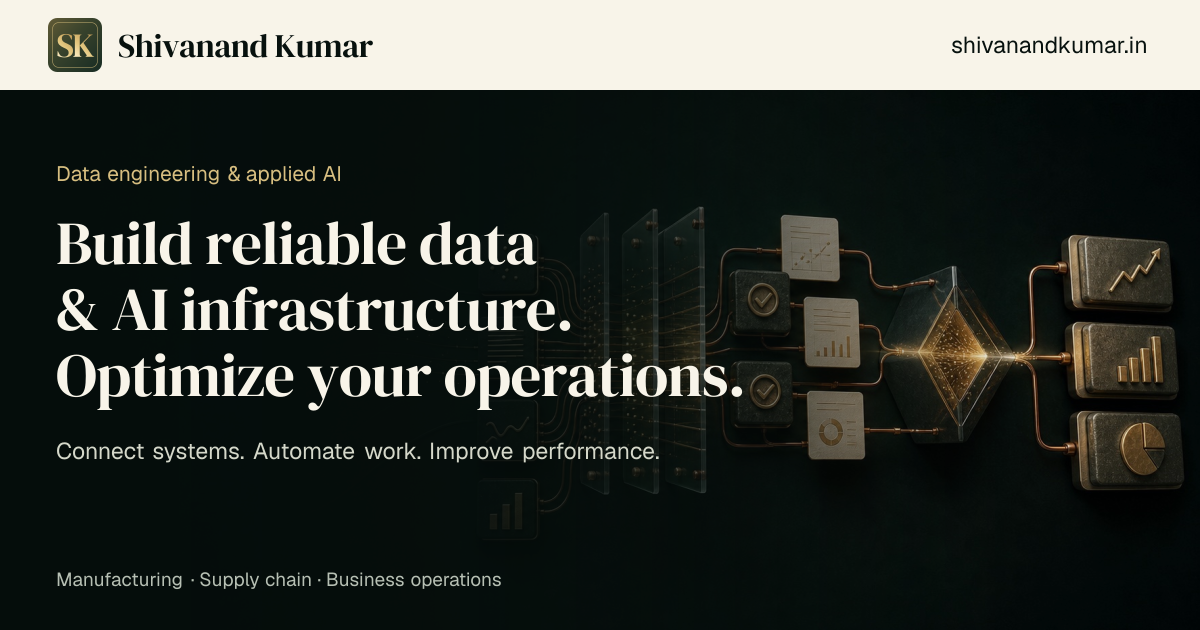
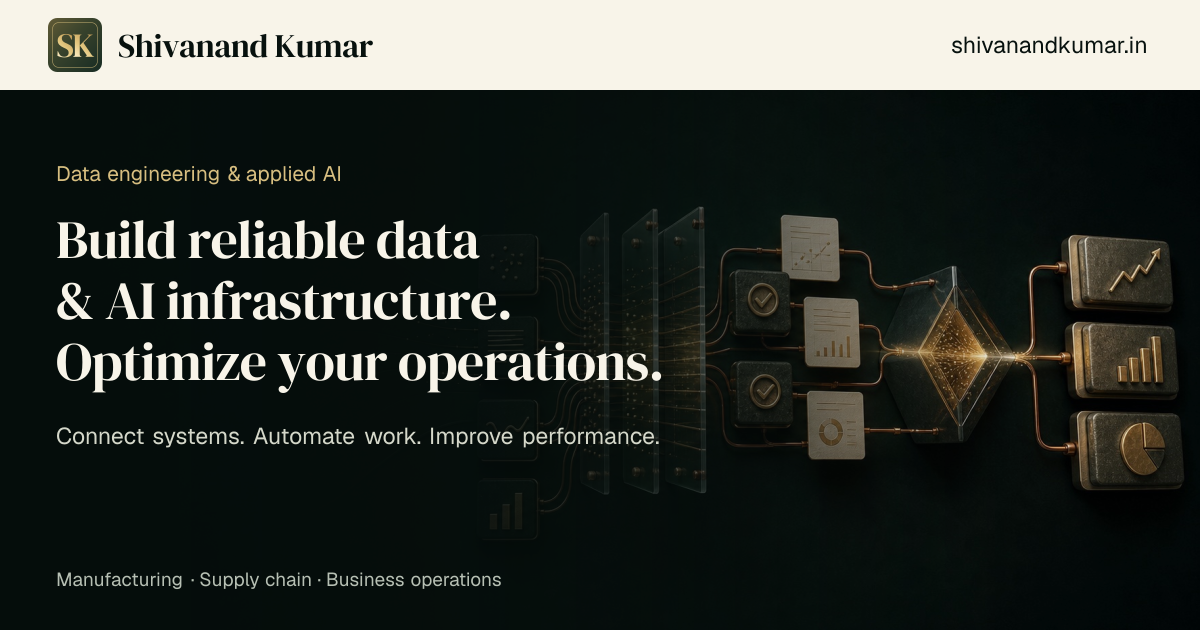
Refine homepage hierarchy and simplify service content

Changed region(s): [[0.0308, 0.4524, 0.6167, 0.754], [0.0308, 0.3317, 0.4625, 0.4222]]

diff --git a/app/homepage.html b/app/homepage.html
@@ -12,14 +12,14 @@
 <section class="rn-hero rn-columns cp-hero biz-hero" id="top" aria-labelledby="rn-main-title">
 <div class="rn-atmosphere" aria-hidden="true"></div>
 <div class="rn-shell">
-<div class="cp-grid"><h1 class="cp-headings" id="rn-main-title"><span class="cp-heading-1">Build reliable data.</span> <span class="cp-heading-2">Put AI to work.</span> <span class="cp-heading-3">Improve how work runs.</span></h1>
-<div class="cp-details"><p class="cp-detail-1">When reports disagree and systems don’t connect, give your team a dependable flow of information to work with.</p><p class="cp-detail-2">Help people find answers, prepare information and move routine work forward—with checks where they matter.</p><p class="cp-detail-3">Use operational data to spot delays, understand cost and plan inventory, people and capacity more clearly.</p></div></div>
-<div class="biz-hero-bottom"><p class="biz-hero-scope">Data engineering, applied AI and workflow automation.<br>Start with one business problem. Build a useful solution. Measure the result.</p>
+<div class="cp-grid"><h1 class="cp-headings" id="rn-main-title"><span class="cp-heading-1">Build reliable<br>data.</span> <span class="cp-heading-2">Put AI to work.</span> <span class="cp-heading-3">Improve how<br>work runs.</span></h1>
+<div class="cp-details"><p class="cp-detail-1">Connect your systems and give teams data they can trust.</p><p class="cp-detail-2">Find answers and automate routine tasks, with checks where they matter.</p><p class="cp-detail-3">Spot delays, understand costs and plan inventory, people and capacity.</p></div></div>
+<div class="biz-hero-bottom"><p class="biz-hero-scope">Data engineering, applied AI and automation for better operations.</p>
 <div class="rn-actions"><a class="rn-primary" href="#solutions">Explore the possibilities</a><a class="rn-secondary" href="#contact">Discuss your challenge</a></div></div></div>
-<div class="biz-sector-strip"><p>For manufacturing, supply chain, ecommerce and service teams.</p><p><strong>From first pilot to ongoing improvement.</strong></p></div></section>
+<div class="biz-sector-strip"><p>For manufacturing, supply chain, ecommerce and service teams.</p></div></section>
 
 <section class="biz-explorer" id="solutions" aria-labelledby="solutions-title">
-<div class="biz-section-intro"><h2 id="solutions-title">Where is work<br>getting stuck?</h2><p>Choose a challenge to see where data, AI or automation could help—and what a focused first project might look like.</p></div>
+<div class="biz-section-intro"><h2 id="solutions-title">Where is work getting stuck?</h2><p>Choose a challenge to explore a practical first project.</p></div>
 <div class="biz-explorer-layout">
 <div class="biz-tabs" role="tablist" aria-label="Business challenges" aria-orientation="vertical"><button type="button" role="tab" id="solution-tab-data" aria-controls="solution-panel-data" aria-selected="true" tabindex="0" data-solution-tab="data" data-service="Data engineering &amp; reporting"><strong>Data &amp; reporting</strong><span>Our systems don&#x27;t tell the same story.</span></button><button type="button" role="tab" id="solution-tab-design" aria-controls="solution-panel-design" aria-selected="false" tabindex="-1" data-solution-tab="design" data-service="Engineering knowledge &amp; applied AI"><strong>Design &amp; engineering</strong><span>We keep searching and rechecking specifications.</span></button><button type="button" role="tab" id="solution-tab-process" aria-controls="solution-panel-process" aria-selected="false" tabindex="-1" data-solution-tab="process" data-service="Process analytics &amp; workflow improvement"><strong>Process &amp; quality</strong><span>The same delays and rework keep coming back.</span></button><button type="button" role="tab" id="solution-tab-cost" aria-controls="solution-panel-cost" aria-selected="false" tabindex="-1" data-solution-tab="cost" data-service="Inventory &amp; cost analytics"><strong>Cost &amp; inventory</strong><span>We see the spend, but not what is driving it.</span></button><button type="button" role="tab" id="solution-tab-workforce" aria-controls="solution-panel-workforce" aria-selected="false" tabindex="-1" data-solution-tab="workforce" data-service="Workforce &amp; capacity planning analytics"><strong>Workforce &amp; capacity</strong><span>Our workload and capacity rarely line up.</span></button><button type="button" role="tab" id="solution-tab-customer" aria-controls="solution-panel-customer" aria-selected="false" tabindex="-1" data-solution-tab="customer" data-service="Knowledge assistants &amp; workflow automation"><strong>Customer operations</strong><span>Routine queries take too much time.</span></button></div>
 <div>
@@ -58,17 +58,17 @@
 <div class="section-heading section-heading-stack"> <p class="eyebrow">Three connected capabilities</p>
 <div> <h2>The foundations behind a useful solution.</h2> </div> </div>
 <div class="capability-frame" aria-label="Connected data, AI and operational analytics services">
-<div class="capability-ring" aria-hidden="true"> <span></span> <span></span> <span></span> </div>
-<article class="capability-node capability-node-top"><p>Applied AI</p>
-<div><h3>Knowledge and workflow automation</h3><ul><li>Answers from approved information</li><li>Useful drafts and document workflows</li><li>Evaluation and human review</li></ul><a href="#solutions" data-open-solution="customer">Explore AI use cases</a></div></article>
 
 <article class="capability-node capability-node-right"><p>Data engineering</p>
 <div><h3>Connected, dependable data</h3><ul><li>Pipeline modernisation and integration</li><li>Shared definitions and quality checks</li><li>Monitoring and controlled access</li></ul><a href="#solutions" data-open-solution="data">Explore data use cases</a></div></article>
 
+<article class="capability-node capability-node-top"><p>Applied AI</p>
+<div><h3>Knowledge and workflow automation</h3><ul><li>Answers from approved information</li><li>Useful drafts and document workflows</li><li>Evaluation and human review</li></ul><a href="#solutions" data-open-solution="customer">Explore AI use cases</a></div></article>
+
 <article class="capability-node capability-node-left"><p>Operational analytics</p>
 <div><h3>Clearer planning and decisions</h3><ul><li>Demand and inventory signals</li><li>Cost and capacity views</li><li>Exceptions that need attention</li></ul><a href="#solutions" data-open-solution="cost">Explore operational use cases</a></div></article>
 
-<div class="capability-core"> <strong>Your business problem</strong> </div> </div> </section>
+ </div> </section>
 
 <section class="section process-section biz-process" id="process">
 <div class="section-heading section-heading-stack"><p class="eyebrow">A clear working rhythm</p>
@@ -83,9 +83,9 @@
 <section class="evaluation-motion-section" id="evaluation-workflow" data-astro-cid-gbcsa3oz>
 <div class="evaluation-motion-heading" data-astro-cid-gbcsa3oz> <p class="eyebrow" data-astro-cid-gbcsa3oz>Checks that make the work dependable</p>
 <div data-astro-cid-gbcsa3oz> <h2 data-astro-cid-gbcsa3oz>Build confidence into the workflow.</h2> <p data-astro-cid-gbcsa3oz>
-Agree what good looks like, test the difficult cases and make exceptions visible. Data, AI and planning workflows each need checks that fit the decisions they support.
+Agree what good looks like, test difficult cases and make exceptions visible before everyday use.
 </p> </div> </div>
-<div class="evaluation-motion-scroll" data-astro-cid-gbcsa3oz>
+<details class="workflow-details"><summary>Explore the checks behind each workflow</summary><div class="evaluation-motion-scroll" data-astro-cid-gbcsa3oz>
 <figure class="evaluation-motion reliability-board" data-evaluation-motion aria-label="Illustrative data, AI and planning workflows, with checks and review before use." data-astro-cid-gbcsa3oz>
 <div class="workflow-board-head" data-astro-cid-gbcsa3oz> <span data-astro-cid-gbcsa3oz>Illustrative delivery workflows</span> <strong data-astro-cid-gbcsa3oz>From the right inputs to a reviewed result.</strong> </div>
 <div class="workflow-tracks" data-astro-cid-gbcsa3oz>
@@ -101,7 +101,7 @@ Agree what good looks like, test the difficult cases and make exceptions visible
 <header class="workflow-track-head" data-astro-cid-gbcsa3oz><p data-astro-cid-gbcsa3oz>Planning and analytics</p><h3 data-astro-cid-gbcsa3oz>Make assumptions and trade-offs visible to the people deciding.</h3></header>
 <ol class="workflow-flow" data-astro-cid-gbcsa3oz><li data-astro-cid-gbcsa3oz><strong data-astro-cid-gbcsa3oz>Question</strong><span data-astro-cid-gbcsa3oz>A cost, inventory or capacity need</span></li><li data-astro-cid-gbcsa3oz><strong data-astro-cid-gbcsa3oz>Drivers</strong><span data-astro-cid-gbcsa3oz>History, demand and constraints</span></li><li data-astro-cid-gbcsa3oz><strong data-astro-cid-gbcsa3oz>Compare</strong><span data-astro-cid-gbcsa3oz>Baselines and alternative scenarios</span></li><li data-astro-cid-gbcsa3oz><strong data-astro-cid-gbcsa3oz>Review</strong><span data-astro-cid-gbcsa3oz>Check assumptions with the team</span></li><li class="workflow-result" data-astro-cid-gbcsa3oz><strong data-astro-cid-gbcsa3oz>Track</strong><span data-astro-cid-gbcsa3oz>Decisions and the actual result</span></li></ol></article>
  </div> <button class="evaluation-motion-toggle" type="button" aria-label="Pause workflow animation" title="Pause animation" data-astro-cid-gbcsa3oz>Pause</button> </figure>
- </div> <p class="final-workflow-note">The checks and review points are agreed for each engagement. This diagram illustrates the approach.</p></section>
+ </div> <p class="final-workflow-note">The checks and review points are agreed for each engagement. This diagram illustrates the approach.</p></details></section>
 
 <section class="final-projects" id="projects" aria-labelledby="projects-title">
 <div class="final-project-intro"><h2 id="projects-title">Explore the work<br>behind the approach.</h2><p>Independent builds that make the methods inspectable: the problem, the implementation, the checks and the limits.</p></div>
@@ -149,7 +149,7 @@ Agree what good looks like, test the difficult cases and make exceptions visible
 
 <section class="final-about" id="about" aria-labelledby="about-title">
 <div>
-<div class="final-about-intro"><img class="rn-portrait" src="/services/approved-ed5f1c790409.jpg" alt="Shivanand Kumar" width="78" height="78">
+<div class="final-about-intro"><img class="rn-portrait" src="/services/approved-ed5f1c790409.jpg" alt="Shivanand Kumar" width="78" height="78" loading="lazy" decoding="async">
 <div><h2 id="about-title">Shivanand Kumar</h2><p class="final-about-role">Data &amp; Applied AI Engineer<br>HP R&amp;D · ex Amazon</p></div></div><p>I work where data engineering meets everyday operations: connecting systems, investigating failures and making information useful to the people who depend on it.</p><p>My experience spans data platforms, applied AI workflows and supply chain analytics. I start by understanding how the team works, then shape the solution around the problem, the available data and a result we can check.</p>
 <div class="final-about-links"><a href="https://www.linkedin.com/in/shivachauhan/" target="_blank" rel="noopener noreferrer">Professional background</a><a href="https://github.com/omni-shiva" target="_blank" rel="noopener noreferrer">Public code</a></div></div>
 <div class="final-career">
@@ -171,7 +171,7 @@ Agree what good looks like, test the difficult cases and make exceptions visible
 </div></section>
 
 <section class="biz-contact" id="contact" aria-labelledby="contact-title">
-<div><h2 id="contact-title">What would you like<br>to work better?</h2><p>Tell me where work slows down, what your team uses today and what a better result would mean. We can use that to define a sensible first step.</p><p>Discovery, focused implementation and ongoing support can be scoped around your team’s needs.</p></div>
+<div><h2 id="contact-title">What would you like<br>to work better?</h2><p>Tell me where work slows down, what your team uses today and what a better result would mean. We can use that to define a sensible first step.</p></div>
 <div><label for="challenge-select">Start with your challenge</label><select id="challenge-select"><option value="">Help me find the starting point</option><option value="data">Data &amp; reporting</option><option value="design">Design &amp; engineering</option><option value="process">Process &amp; quality</option><option value="cost">Cost &amp; inventory</option><option value="workforce">Workforce &amp; capacity</option><option value="customer">Customer operations</option></select><a id="challenge-email" class="biz-email" href="mailto:partner@hetanorai.com">Start a conversation by email</a><p class="biz-email-address"><a href="mailto:partner@hetanorai.com">partner@hetanorai.com</a></p><p class="biz-privacy" id="challenge-status" aria-live="polite">Your email will include a few prompts to describe the challenge.</p><p class="biz-privacy">An NDA can be arranged before sharing confidential material.</p></div></section>
  </main>
 

diff --git a/app/homepage.css b/app/homepage.css
@@ -381,3 +381,58 @@
 .services-home .brand-symbol{display:block;width:36px;height:36px;flex:none}
 @media(max-width:650px){.services-home .rn-brand{gap:9px;font-size:22px}.services-home .brand-symbol{width:32px;height:32px}}
 @media(max-width:360px){.services-home .rn-brand{font-size:20px}}
+
+/* A quieter first read: matched promise rows and one clear entry into solutions. */
+.services-home .biz-hero .rn-shell{padding-top:56px}
+.services-home .biz-hero .cp-grid{row-gap:23px;align-items:start}
+.services-home .biz-hero .cp-headings>span{font-size:clamp(29px,3.05vw,44px);line-height:1.16;letter-spacing:-.6px;max-width:none;text-wrap:initial}
+.services-home .biz-hero .cp-heading-2{align-self:center}
+.services-home .biz-hero .cp-details>p{font-size:16px;line-height:1.7;max-width:none}
+.services-home .biz-hero-bottom{margin-top:34px;padding-top:23px;padding-bottom:26px}
+.services-home .biz-hero-scope{max-width:540px;font-size:15px;line-height:1.6}
+.services-home .biz-explorer{padding-top:62px;padding-bottom:64px}
+.services-home .biz-section-intro{display:block;margin-bottom:29px}
+.services-home .biz-section-intro h2{font-size:clamp(30px,2.8vw,42px);line-height:1.2;max-width:none}
+.services-home .biz-section-intro p{margin-top:12px;max-width:650px;line-height:1.6}
+.services-home .services-section .capability-frame{display:grid;grid-template-columns:repeat(3,minmax(0,1fr));gap:32px;min-height:0;max-width:none;margin:0;border:0;border-radius:0;background:none;box-shadow:none;overflow:visible}
+.services-home .services-section .capability-node{position:static;display:block;inset:auto;transform:none;width:auto;max-width:none;min-height:0;padding:23px 0 0;border:0;border-top:1px solid #c8bda6;border-radius:0;box-shadow:none;background:none;animation:none;opacity:1;text-align:left}
+.services-home .services-section .capability-node>p{position:static;margin:0 0 14px;padding:0;background:none;color:#8a5d28;font-size:14px;text-transform:none;letter-spacing:0}
+.services-home .services-section .capability-node>div{padding:0}
+.services-home .services-section .capability-node h3{font-size:25px;line-height:1.22;max-width:320px;margin:0 0 16px}
+.services-home .services-section .capability-node ul{margin:0 0 18px;font-size:15px;line-height:1.7}
+.services-home .services-section .capability-node a{font-size:14px}
+.services-home .workflow-details{margin:0 5vw;border-top:1px solid #8b9a834d;border-bottom:1px solid #8b9a834d}
+.services-home .workflow-details>summary{display:list-item;cursor:pointer;padding:21px 0;font-size:16px;font-weight:600;color:#244d42;list-style-position:inside}
+.services-home .workflow-details[open]>summary{margin-bottom:18px}
+.services-home #evaluation-workflow .workflow-details .evaluation-motion-scroll{padding-left:0;padding-right:0}
+.services-home #evaluation-workflow .workflow-details .final-workflow-note{margin-left:0;margin-right:0}
+@media(max-width:1000px){.services-home .biz-hero .cp-headings>span{font-size:clamp(26px,3.3vw,33px)}.services-home .services-section .capability-frame{gap:23px}}
+@media(max-width:650px){
+ .services-home .biz-hero .rn-shell{padding-top:35px}
+ .services-home .biz-hero .cp-headings>span{font-size:30px;line-height:1.15}
+ .services-home .biz-hero .cp-heading-2{align-self:start}
+ .services-home .biz-hero .cp-details>p{font-size:15px;max-width:39ch;margin-top:12px;margin-bottom:25px}
+ .services-home .biz-hero-bottom{margin-top:26px;padding-top:21px;padding-bottom:25px}
+ .services-home .biz-hero-scope{font-size:14px}
+ .services-home .biz-explorer{padding-top:45px;padding-bottom:48px}
+ .services-home .biz-section-intro h2{font-size:30px;max-width:18ch}
+ .services-home .services-section .capability-frame{grid-template-columns:1fr;gap:24px}
+ .services-home .services-section .capability-node h3{font-size:24px;max-width:none}
+ .services-home .workflow-details{margin-left:7vw;margin-right:7vw}
+ .services-home .workflow-details>summary{font-size:15px;line-height:1.5}
+}
+
+.services-home .services-section .capability-frame:before,.services-home .services-section .capability-frame:after{display:none}
+
+.services-home .services-section:before{display:none}
+.services-home .services-section .capability-node{align-self:stretch}
+.services-home .services-section .capability-node>p{text-align:left}
+.services-home .services-section .capability-node h3{min-height:2.44em}
+@media(max-width:650px){.services-home .services-section .capability-node h3{min-height:0}}
+
+.services-home .services-section .capability-node>p{justify-self:start;border:0;border-radius:0}
+.services-home .services-section .capability-node ul{justify-content:flex-start}
+
+.services-home a,.services-home button,.services-home summary,.services-home select{touch-action:manipulation}
+@media(max-width:1000px){.services-home .rn-header .mobile-nav summary{min-width:44px;min-height:44px;display:list-item;line-height:44px;text-align:center}.services-home .rn-header .mobile-nav nav a{display:flex;min-height:44px;align-items:center}}
+@media(max-width:650px){.services-home #challenge-select{font-size:16px}.services-home .rn-header{gap:12px}}

diff --git a/app/layout.tsx b/app/layout.tsx
@@ -21,9 +21,9 @@ export const metadata: Metadata = {
   openGraph: {
     title, description, type: "website", url: "https://shivanandkumar.in/",
     siteName: "Shivanand Kumar — Portfolio & Services",
-    images: [{ url: "/og-services-2026-11-v2.png", width: 1200, height: 630, alt: "Build reliable data and AI infrastructure. Optimize your operations. Shivanand Kumar." }],
+    images: [{ url: "/services/share-card.png", width: 1200, height: 630, alt: "Build reliable data and AI infrastructure. Optimize your operations. Shivanand Kumar." }],
   },
-  twitter: { card: "summary_large_image", title, description, images: ["/og-services-2026-11-v2.png"] },
+  twitter: { card: "summary_large_image", title, description, images: ["/services/share-card.png"] },
 };
 
 export default function RootLayout({ children }: Readonly<{ children: React.ReactNode }>) {

diff --git a/app/components/HomeInteractions.tsx b/app/components/HomeInteractions.tsx
@@ -60,7 +60,7 @@ export default function HomeInteractions() {
       const solutionLink = element.closest<HTMLElement>("[data-open-solution]");
       if (solutionLink) {
         const targetTab = solutions.find(item => item.dataset.solutionTab === solutionLink.dataset.openSolution);
-        if (targetTab) activate(solutions, targetTab);
+        if (targetTab) activate(solutions, targetTab, true);
       }
       const enquiryLink = element.closest<HTMLElement>("[data-discuss-solution]");
       if (enquiryLink) { select.value = enquiryLink.dataset.discussSolution!; updateEnquiry(); }

diff --git a/DESIGN.md b/DESIGN.md
@@ -1,0 +1,43 @@
+# Website design system
+
+This is a data engineering and applied AI services site for manufacturing, supply-chain, ecommerce and service teams. Visitors should understand the problem being solved and find a sensible first project.
+
+## Identity
+
+- Deep forest: `#07110e`; forest surface: `#132d27`.
+- Warm cream: `#f8f4e9`; ink: `#1c1914`; brass: `#d7be80`.
+- Use the gold-green SK monogram in `public/brand/sk-mark.svg`.
+- Retain the existing approved brass-and-glass artwork as quiet supporting imagery.
+
+## Type and layout
+
+- Editorial serif for headings; existing Avenir/Helvetica system stack for body copy.
+- Desktop hero headings: maximum 44px; side headings use two deliberate lines and the single-line middle heading centers vertically within that row.
+- Mobile hero headings: 30px; stack each heading with its description.
+- Body copy: 15–16px, with comfortable line height. Prefer one short, concrete sentence.
+- Share edges consistently within each section. Use the existing five-percent desktop and seven-percent mobile gutters.
+- Show one selected challenge and project at a time. Put detailed methodology behind an accessible disclosure.
+- Use the customer’s operational language; describe a first project, its input and the way progress will be checked.
+
+## Interaction and quality
+
+- Semantic links, buttons, tabs and native disclosures; visible keyboard focus.
+- At least 44px mobile navigation targets and readable select text.
+- Honor reduced motion and offer pause controls for ongoing animation.
+- Check at 320, 390, 768, 1024 and 1440px; no page overflow or overlapping navigation.
+- Review the actual rendered page after every material visual change.
+
+## Evidence and sharing
+
+Keep employer experience separate from independent synthetic-data demonstrations. Preserve project limits and public source links.
+
+Share `https://shivanandkumar.in/` as the canonical address. Open Graph points to `https://shivanandkumar.in/services/share-card.png`. A new deployment changes live content; a client may retain an earlier preview in its own cache or an already-sent message.
+
+## References
+
+- [Vercel Web Interface Guidelines](https://vercel.com/design/guidelines)
+- [Thoughtworks manufacturing services](https://www.thoughtworks.com/clients/manufacturing-and-engineering)
+- [Quantiphi manufacturing services](https://quantiphi.com/industries/manufacturing/)
+- [Publicis Sapient data and AI](https://www.publicissapient.com/company/capabilities/data-ai)
+
+These inform review. The owner’s approved identity and specific requests govern implementation.
